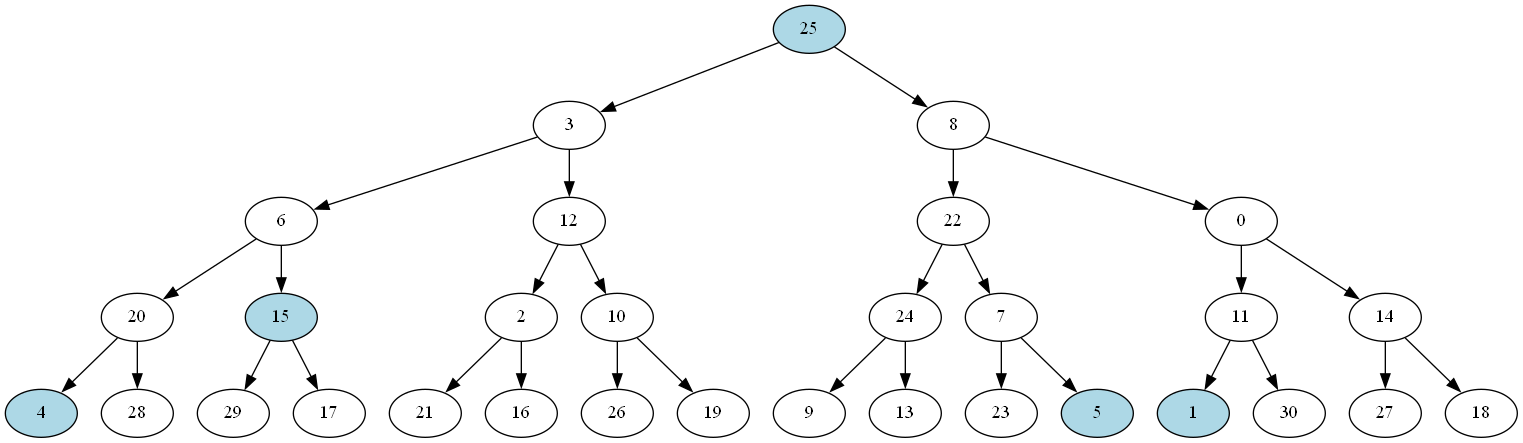
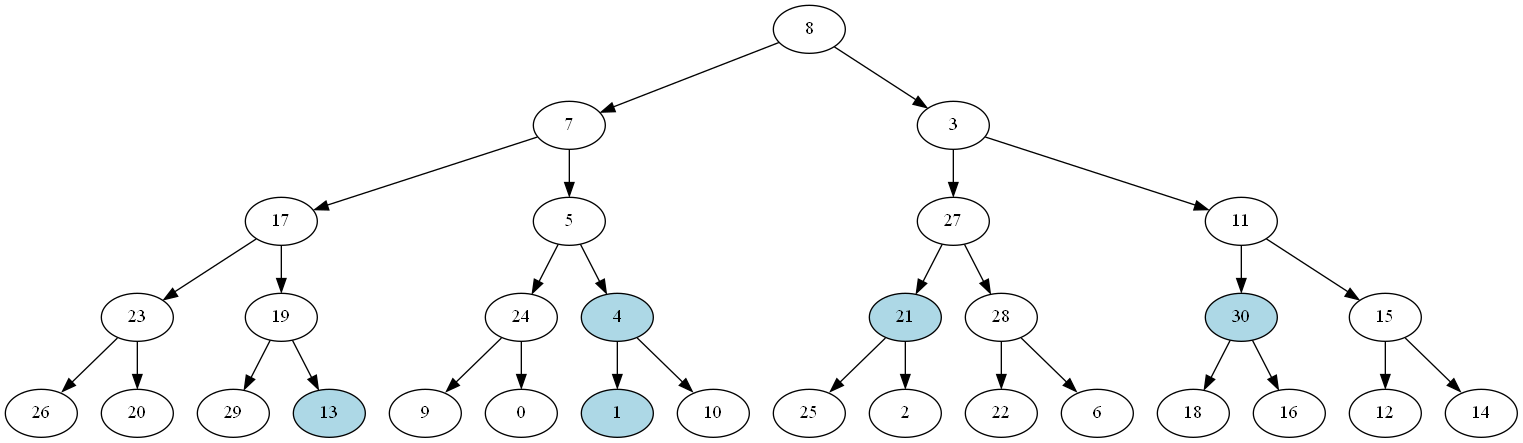
finish

diff --git a/main.py b/main.py
@@ -20,6 +20,32 @@ def build_balanced_bst(arr, start, end):
     root.right = build_balanced_bst(arr, mid + 1, end)
     return root
 
+def build_unbalanced_graph(n):
+    # Create a root node with a random value
+    root = TreeNode(random.randint(0, n - 1))
+    # Create a list of nodes to be added
+    nodes = [TreeNode(i) for i in range(n) if i != root.val]
+    # Randomly choose a node from the list and add it to the right or left subtree of the root
+    while nodes:
+        node = random.choice(nodes)
+        nodes.remove(node)
+        curr = root
+        while True:
+            if random.random() < 0.5: # Go left
+                if curr.left is None:
+                    curr.left = node
+                    break
+                else:
+                    curr = curr.left
+            else: # Go right
+                if curr.right is None:
+                    curr.right = node
+                    break
+                else:
+                    curr = curr.right
+    return root
+
+
 
 def visualize_tree(root):
     g = graphviz.Digraph(format='png')
@@ -70,12 +96,17 @@ def find_element_bfs(root, target):
     return None, path
 
 
+
 # Size of the three
 n = 31
-# Build the tree
+
+###################################################
+# Build the balanced tree
 arr = list(range(n))
 random.shuffle(arr)
 root = build_balanced_bst(arr, 0, len(arr) - 1)
+# root = build_unbalanced_graph(n)
+
 
 DFS_time = 0
 BFS_time = 0
@@ -91,18 +122,18 @@ for j in range(1, repeat + 1):
             print(f"Target = {target[i]}")
         # Search for the element 8 using DFS
         start_time = time.time()
-        time.sleep(0.25)
+        time.sleep(0.1)
         node, path = find_element_dfs(root, target[i])
-        end_time = time.time() - 0.25
+        end_time = time.time() - 0.1
         DFS_time += (end_time - start_time)
         if j == repeat:
             print("Full traversal path of DFS:", path)
 
         # Search for the element using BFS
         start_time = time.time()
-        time.sleep(0.25)
+        time.sleep(0.1)
         node, path = find_element_bfs(root, target[i])
-        end_time = time.time() - 0.25
+        end_time = time.time() - 0.1
         BFS_time += (end_time - start_time)
         if j == repeat:
             print("Full traversal path of BFS:", path)
@@ -128,7 +159,73 @@ rects2 = ax.bar('BFS', BFS_time/repeat, bar_width, alpha=opacity, color='g', lab
 # Add labels, title, and legend
 ax.set_xlabel('Search Algorithm')
 ax.set_ylabel('Time (seconds)')
-ax.set_title('Time Comparison of DFS and BFS')
+ax.set_title('Time Comparison of DFS and BFS in balanced graph')
+ax.legend()
+
+# Show the graph
+plt.show()
+
+print("=====================================================")
+#############################################################
+# Build the unbalanced tree
+arr = list(range(n))
+random.shuffle(arr)
+
+root = build_unbalanced_graph(n)
+
+
+DFS_time = 0
+BFS_time = 0
+
+repeat = 50
+for j in range(1, repeat + 1):
+    target = arr.copy()
+    random.shuffle(target)
+    target = target[:5]
+
+    for i in range(5):
+        if j == repeat:
+            print(f"Target = {target[i]}")
+        # Search for the element 8 using DFS
+        start_time = time.time()
+        time.sleep(0.1)
+        node, path = find_element_dfs(root, target[i])
+        end_time = time.time() - 0.1
+        DFS_time += (end_time - start_time)
+        if j == repeat:
+            print("Full traversal path of DFS:", path)
+
+        # Search for the element using BFS
+        start_time = time.time()
+        time.sleep(0.1)
+        node, path = find_element_bfs(root, target[i])
+        end_time = time.time() - 0.1
+        BFS_time += (end_time - start_time)
+        if j == repeat:
+            print("Full traversal path of BFS:", path)
+
+        if j == repeat:
+            print("=====================================")
+
+print(f"DFS time: {DFS_time/repeat}")
+print(f"BFS time: {BFS_time/repeat}")
+
+# Visualize the tree
+tree_graph = visualize_tree(root)
+tree_graph.render('unbalanced_bst')
+
+
+# Create a bar chart
+fig, ax = plt.subplots()
+bar_width = 0.35
+opacity = 0.8
+rects1 = ax.bar('DFS', DFS_time/repeat, bar_width, alpha=opacity, color='b', label='DFS')
+rects2 = ax.bar('BFS', BFS_time/repeat, bar_width, alpha=opacity, color='g', label='BFS')
+
+# Add labels, title, and legend
+ax.set_xlabel('Search Algorithm')
+ax.set_ylabel('Time (seconds)')
+ax.set_title('Time Comparison of DFS and BFS in unbalanced graph')
 ax.legend()
 
 # Show the graph
